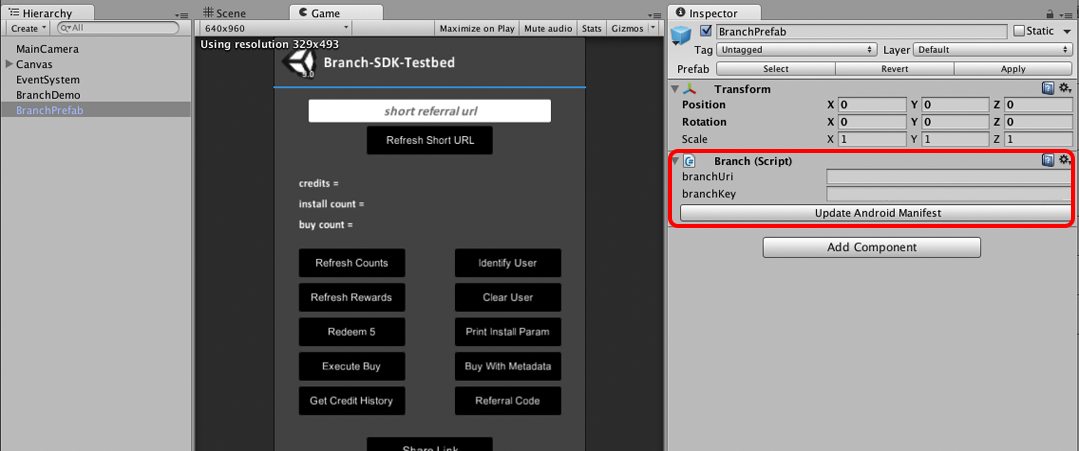
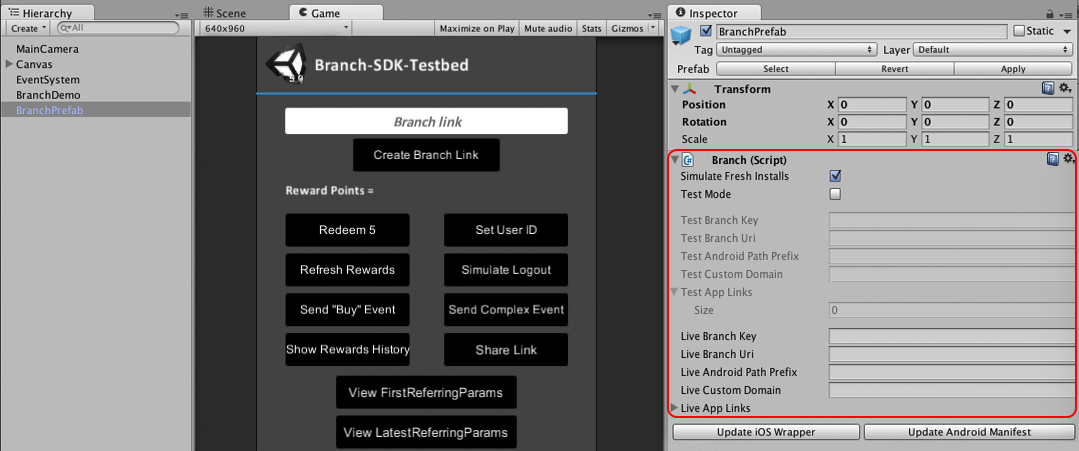
save progress until unity 3 updated

diff --git a/pages/getting-started/sdk-integration-guide.md b/pages/getting-started/sdk-integration-guide.md
@@ -159,15 +159,20 @@ You can also [build and reference the assemblies directly]({{base.url}}/getting-
 
 ### Get the files
 
-1. [Download the latest SDK version](https://s3-us-west-1.amazonaws.com/branchhost/BranchUnityWrapper.unitypackage){:target="_blank"} or [clone our open-source GitHub repository](https://github.com/BranchMetrics/Unity-Deferred-Deep-Linking-SDK){:target="_blank"}.
+1. [Download the latest SDK version](https://s3-us-west-1.amazonaws.com/branchhost/BranchUnityWrapper.unitypackage){:target="_blank"} or [clone our open-source GitHub repository](https://github.com/BranchMetrics/unity-branch-deep-linking){:target="_blank"}.
 1. Import the `BranchUnityWrapper.unitypackage` into your project by clicking `Assets -> Import Package`.
 
 ### Configure the package and add Branch key
 
 1. To allow Branch to configure itself, drag a **BranchPrefab** asset to your scene.
-1. Specify your `branchUri` and `branchKey` in the properties.
-   - `branchKey`: get your Branch key from [the Branch dashboard](https://dashboard.branch.io/#/settings){:target="_blank"}.
-   - `branchUri`: this must be the same value as you entered in [the Branch link settings](https://dashboard.branch.io/#/settings/link){:target="_blank"}. Do **not** include the `://` characters.
+1. Fill out the following Prefab settings
+
+| Field name | Description
+| --- | ---
+| `Branch Key` | Get your live or test Branch key from [the Branch dashboard](https://dashboard.branch.io/#/settings){:target="_blank"}. You can toggle Live/Test at the top right hand side of the dashboard.
+| `Branch Uri` | The URI scheme for your app, which must be the same value as you entered in [the Branch link settings](https://dashboard.branch.io/#/settings/link){:target="_blank"}. Do **not** include the `://` characters.
+| `
+| `
    - `androidPathPrefix`: This is your Branch android path prefix. This is the four-character value in front of all your links. You can find it underneath the field labeled **SHA256 Cert Fingerprints** on the dashboard. It will look something like this: `/WSuf` (the initial `/` character should be included).
 
 {% image src='/img/pages/getting-started/sdk-integration-guide/unity_branch_key.png' full center alt='Unity plugin installation' %}
